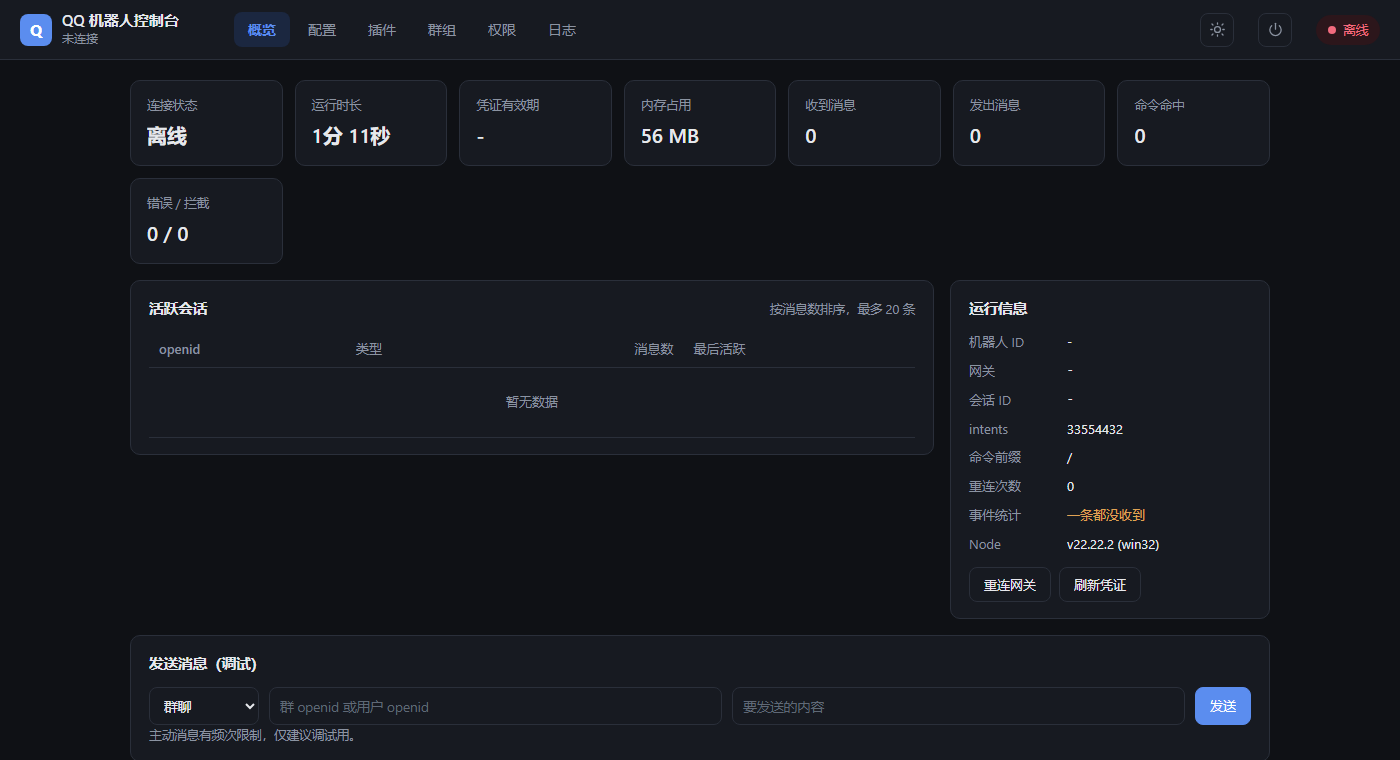
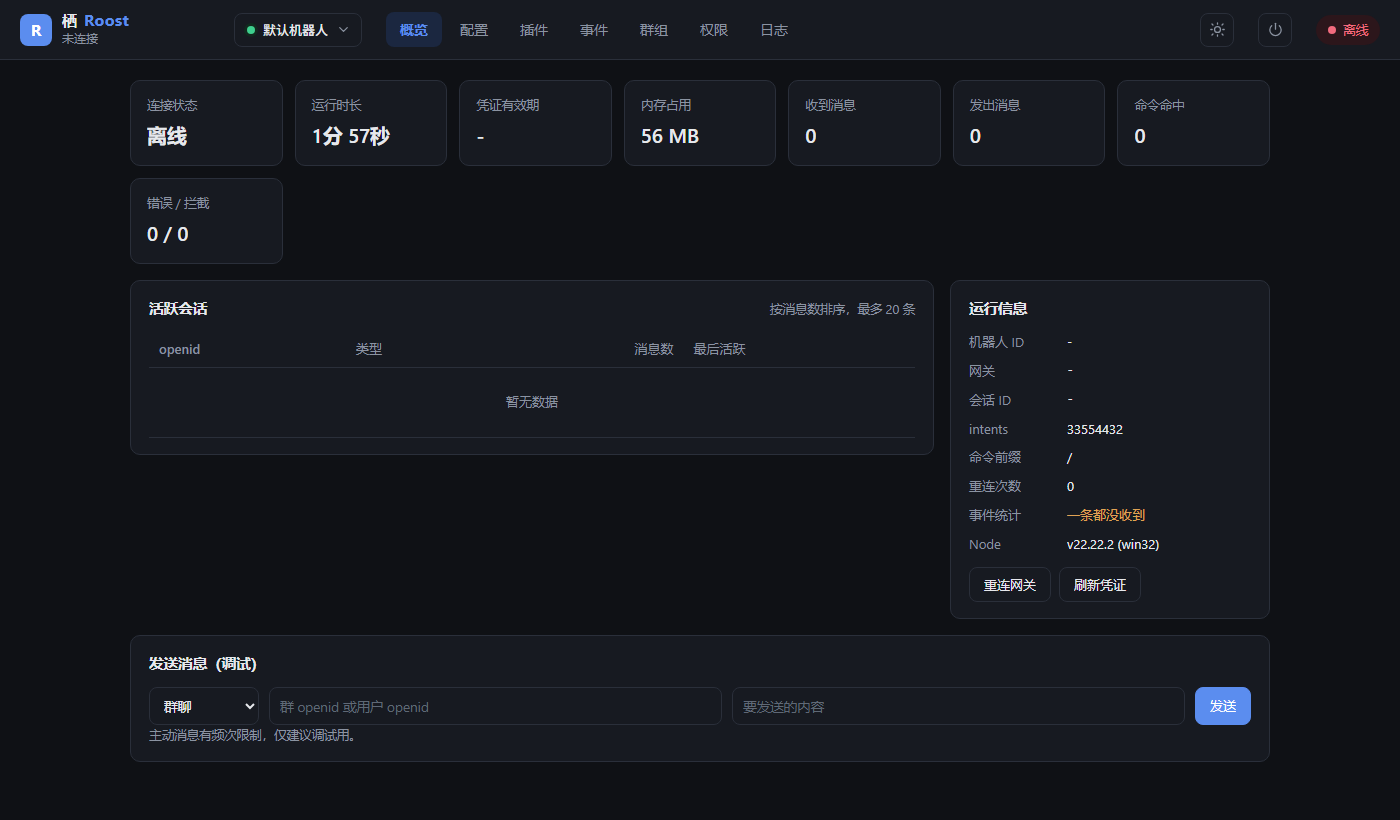
fix: 修复 SSE 客户端集合类型错误，面板标注品牌名 Roost
修复：
- sseClients 声明还是 Set，但用法已经改成 Map（多机器人改造时漏改），
  导致浏览器连上 /api/stream 就报 "sseClients.set is not a function"，
  实时状态推送完全失效。改为 new Map()，日志广播的遍历同步改成 keys()
- statusPayload() 两处调用漏传当前机器人（/api/status 和 SSE 首次推送），
  导致返回的 cfg 为空
- runtime.snapshot 支持传入 botId / botName，面板「运行信息」不再显示 "-"

品牌：
- 顶栏 logo 从 "Q" 改为 "R"，标题从「QQ 机器人控制台」改为「栖 Roost」，
  Roost 用主色加粗并拉开字距，一眼能认出是哪个项目
- brand 区加 title 提示「栖 Roost · 倦飞之鸟，终有一栖」

验证：直接连 /api/stream 确认状态每 2 秒正常推送，日志无报错；
/api/status 返回 botId=main、botName=默认机器人；npm test 45/45

diff --git a/src/web/server.js b/src/web/server.js
@@ -115,7 +115,8 @@ export async function startWebServer({
   const port = Number(wc.port) || 15207;
   const accessKey = wc.accessKey || wc.token || '';
 
-  const sseClients = new Set();
+  // res -> 这个连接正在看哪个机器人，状态推送时按各自的目标过滤
+  const sseClients = new Map();
 
   /**
    * 按 ?bot=<id> 选机器人，没传就用第一个。
@@ -136,12 +137,14 @@ export async function startWebServer({
       credentialExpiresIn: Math.max(0, Math.round(((rt?.tokens?.expiresAt ?? 0) - Date.now()) / 1000)),
       plugins: rt ? rt.plugins.list() : [],
       cfg: rt?.cfg ?? {},
+      botId: rt?.id ?? null,
+      botName: rt?.name ?? null,
     });
 
-  // 日志实时推送
+  // 日志实时推送：日志是全局的，所有连接都收到同一份
   const offLog = onLog((entry) => {
     const data = `event: log\ndata: ${JSON.stringify(entry)}\n\n`;
-    for (const res of sseClients) {
+    for (const res of sseClients.keys()) {
       try {
         res.write(data);
       } catch {}
@@ -264,7 +267,7 @@ export async function startWebServer({
 
         // 状态
         if (pathname === '/api/status' && req.method === 'GET') {
-          return json(res, 200, statusPayload());
+          return json(res, 200, statusPayload(rt));
         }
 
         // 配置读取（隐藏密钥）
@@ -451,7 +454,7 @@ export async function startWebServer({
             'Cache-Control': 'no-cache',
             Connection: 'keep-alive',
           });
-          res.write(`event: status\ndata: ${JSON.stringify(statusPayload())}\n\n`);
+          res.write(`event: status\ndata: ${JSON.stringify(statusPayload(rt))}\n\n`);
           sseClients.set(res, rt.id);
           const ping = setInterval(() => {
             try {

diff --git a/src/runtime.js b/src/runtime.js
@@ -111,11 +111,12 @@ export const runtime = {
     return Date.now() - this.startedAt;
   },
 
-  snapshot({ credentialExpiresIn = 0, plugins = [], cfg = {} } = {}) {
+  snapshot({ credentialExpiresIn = 0, plugins = [], cfg = {}, botId = null, botName = null } = {}) {
     return {
       connected: this.connected,
-      botName: this.botName,
-      botId: this.botId,
+      // 多机器人下 botId/botName 由调用方按当前选中的机器人传入
+      botName: botName ?? this.botName,
+      botId: botId ?? this.botId,
       gatewayUrl: this.gatewayUrl,
       sessionId: this.sessionId,
       uptimeMs: this.uptimeMs,

diff --git a/web/style.css b/web/style.css
@@ -129,8 +129,17 @@ body {
   background: var(--primary); color: #fff;
   display: grid; place-items: center;
   font-weight: 700; font-size: 16px;
+  flex: none;
 }
-.title { font-weight: 600; font-size: 15px; line-height: 1.2; }
+.title { font-weight: 600; font-size: 15px; line-height: 1.2; display: flex; align-items: baseline; }
+/* 品牌英文名：跟中文名拉开层级，让 Roost 更醒目 */
+.brand-en {
+  margin-left: 7px;
+  font-size: 15.5px;
+  font-weight: 700;
+  letter-spacing: .05em;
+  color: var(--primary);
+}
 .sub { font-size: 12px; color: var(--muted); }
 
 .tabs { display: flex; gap: 4px; flex: 1; }

diff --git a/web/index.html b/web/index.html
@@ -19,10 +19,10 @@
 <body>
 
 <header class="topbar">
-  <div class="brand">
-    <span class="logo">Q</span>
+  <div class="brand" title="栖 Roost · 倦飞之鸟，终有一栖">
+    <span class="logo">R</span>
     <div>
-      <div class="title">QQ 机器人控制台</div>
+      <div class="title">栖<span class="brand-en">Roost</span></div>
       <div class="sub" id="botName">未连接</div>
     </div>
   </div>
